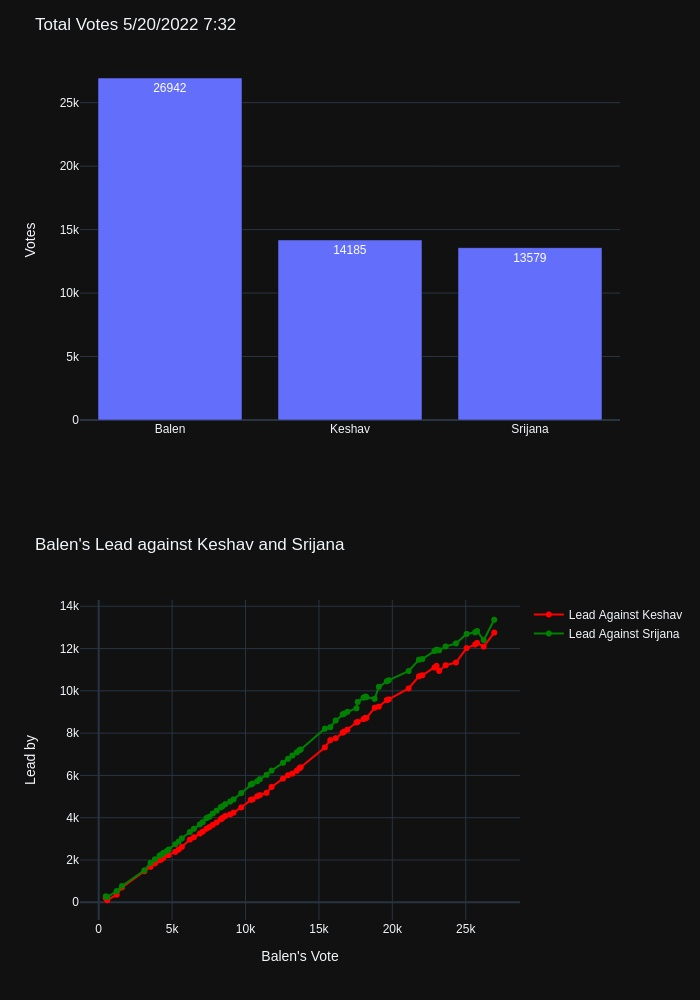
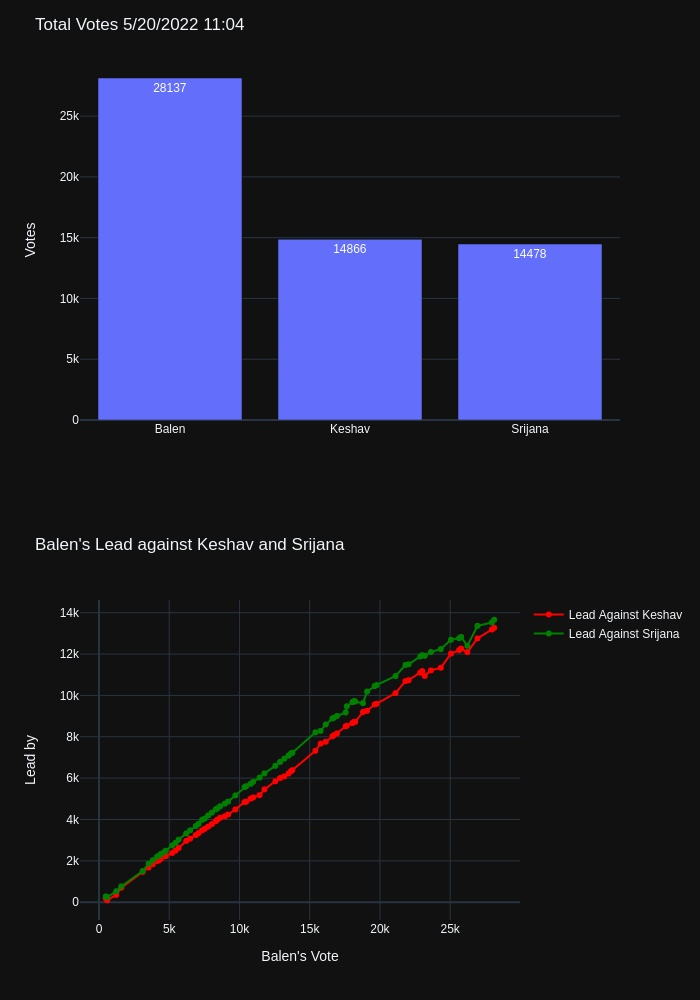
add data

diff --git a/README.md b/README.md
@@ -1,4 +1,4 @@
-## Last Update: 5/20/2022 7:32
+## Last Update: 5/20/2022 11:04
 
 ## Balen's Lead against Keshav Sthapit and Srijana Singh
 ![ScreenShot](final.jpg)
